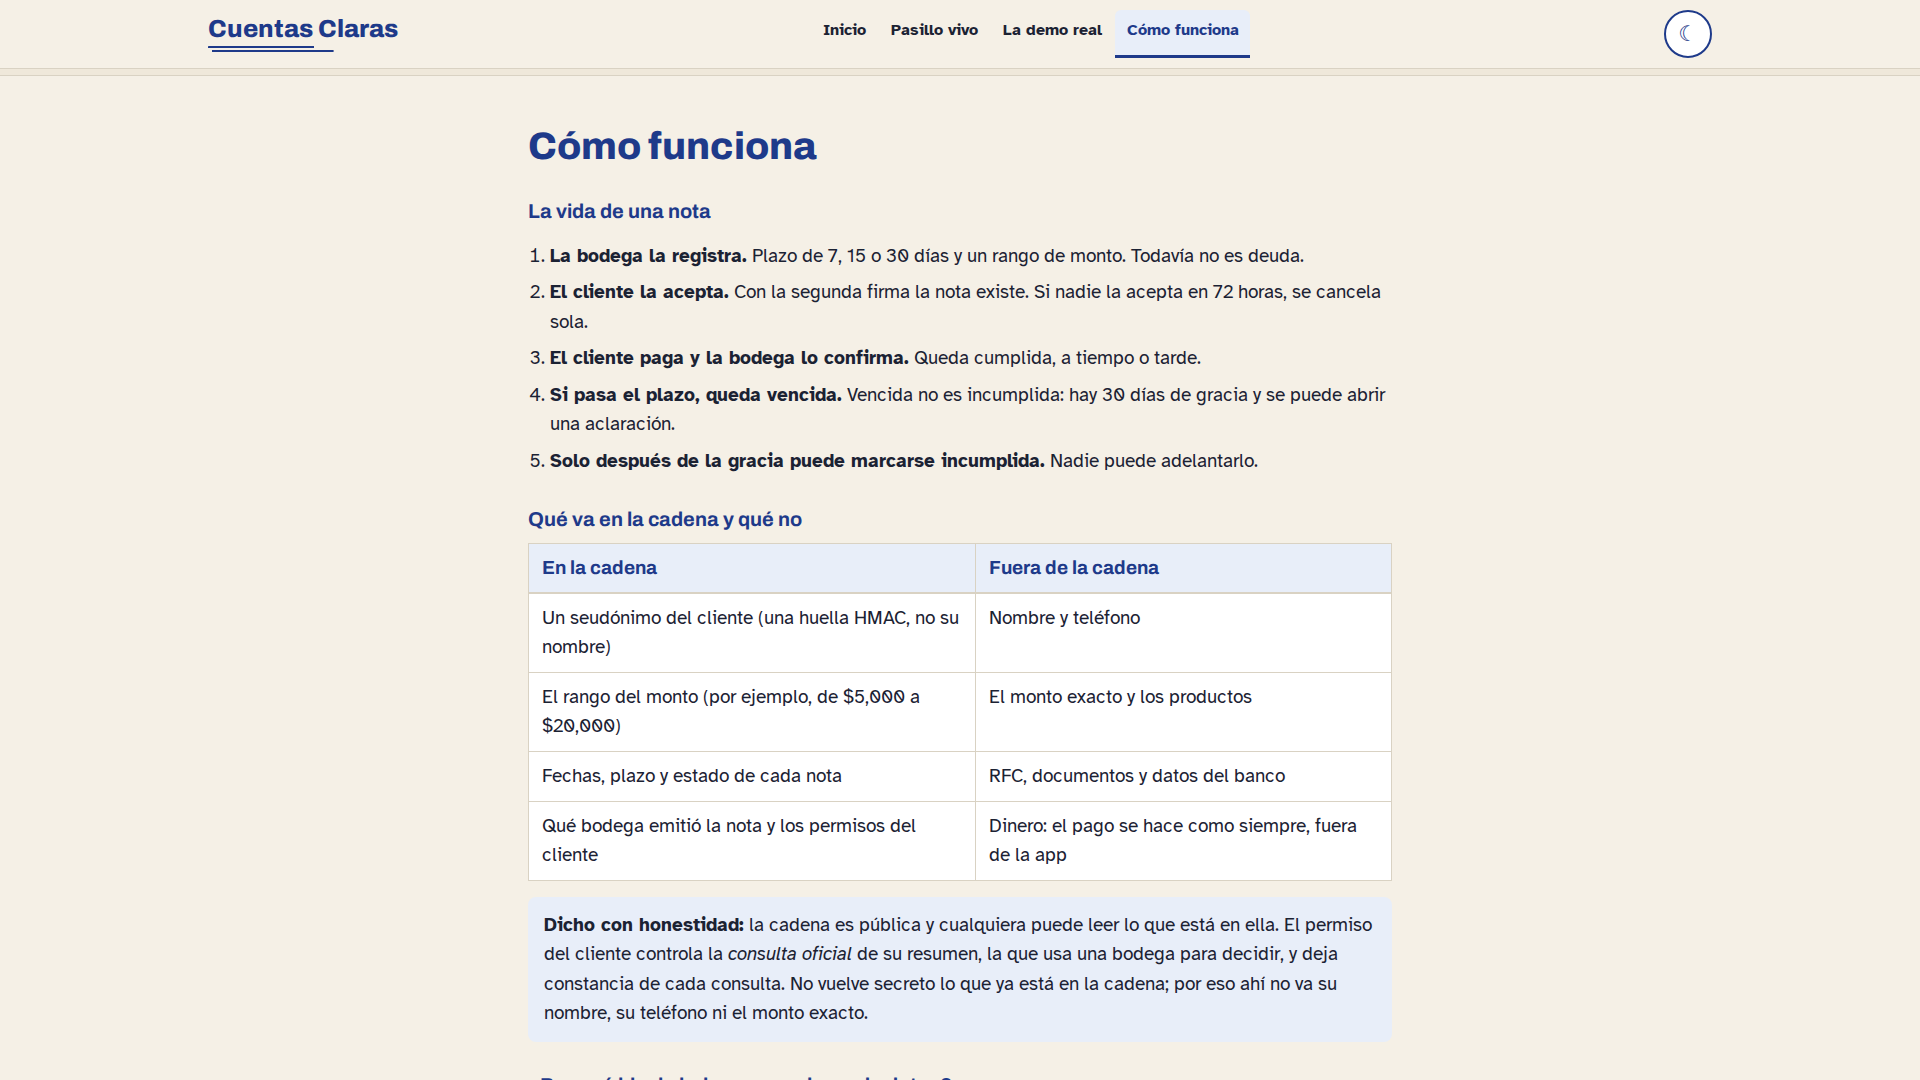
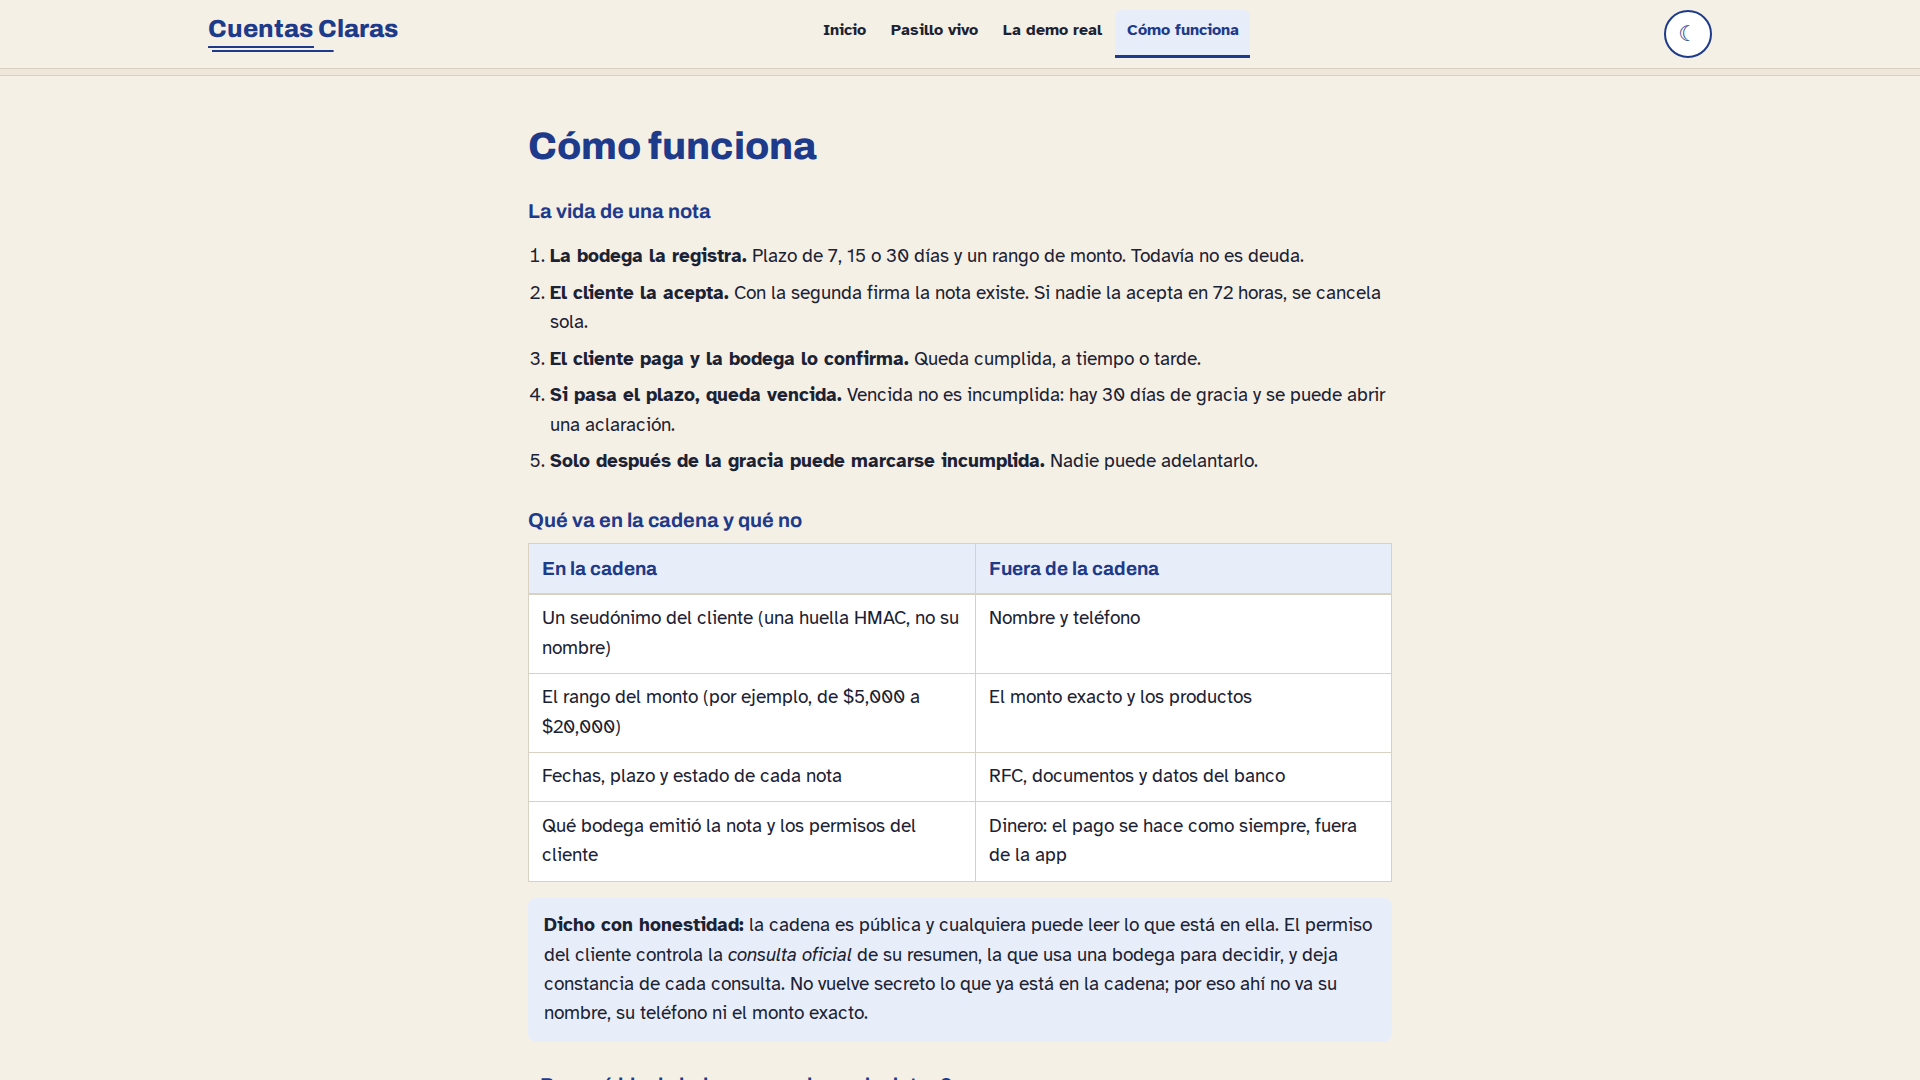
Sitio público: revisión final antes de congelar (cola, tarea 13)
Recorrido en Chromium en los dos temas, a 390 y 1920 px: sin vocabulario vetado ni
bodegas sin número en el texto visible; seis avisos de «ninguna bodega real
participa»; solo los 5 hashes de repeticion.json y cada enlace a su transacción;
enlaces externos solo a stellar.expert, el repositorio y Stellar Lab, todos con
noopener; sin anclas rotas, sin desbordes y sin errores de consola.
Único cambio: los bloques de la historia solo guardan alto mínimo en pantallas
angostas. Capturas web-* regeneradas. 61 pruebas en verde.

Claude-Session: https://claude.ai/code/session_01K1b1vNoFtBP3GMdkbhyJpw

diff --git a/web/estilos.css b/web/estilos.css
@@ -556,8 +556,8 @@ main:focus { outline: none; }
 .historia-paso {
   display: grid; grid-template-columns: 2.6rem 1fr; gap: 0.8rem; align-items: start;
   background: var(--superficie); border: 1px solid var(--borde); border-radius: 10px; padding: 0.9rem 1rem;
-  min-height: 9rem;
 }
+@media (max-width: 899px) { .historia-paso { min-height: 9rem; } } /* margen para que el mini mapa cambie al leer */
 .historia-paso p { margin-bottom: 0.4rem; }
 .historia-num {
   display: grid; place-items: center; width: 2.4rem; height: 2.4rem; border-radius: 50%; margin: 0;
